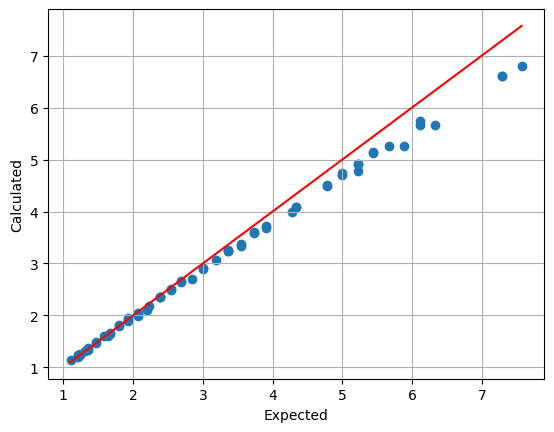
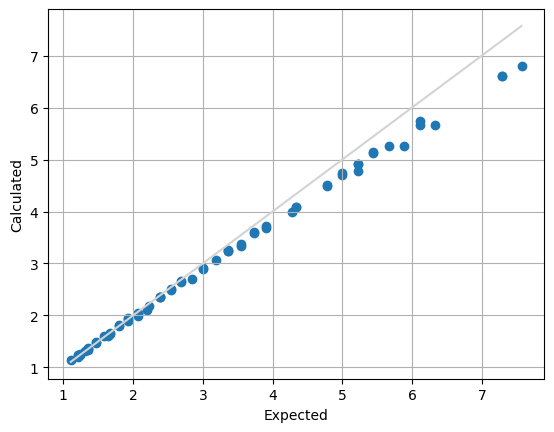
Added  improved graphs and deleted temporary file

diff --git a/test-reprod.py b/test-reprod.py
@@ -67,7 +67,7 @@ for bmf in bm_folders:
             plt.ylabel("Calculated")
             # plt.title(bmf)
             x = np.linspace(min(expectedA + calculatedA), max(expectedA + calculatedA), 100)
-            plt.plot(x, x, color='red') 
+            plt.plot(x, x, color='lightgray') 
             plt.grid(True)
             # plt.show()
             plt.savefig(oppath + bmf + ".png", bbox_inches = 'tight')
